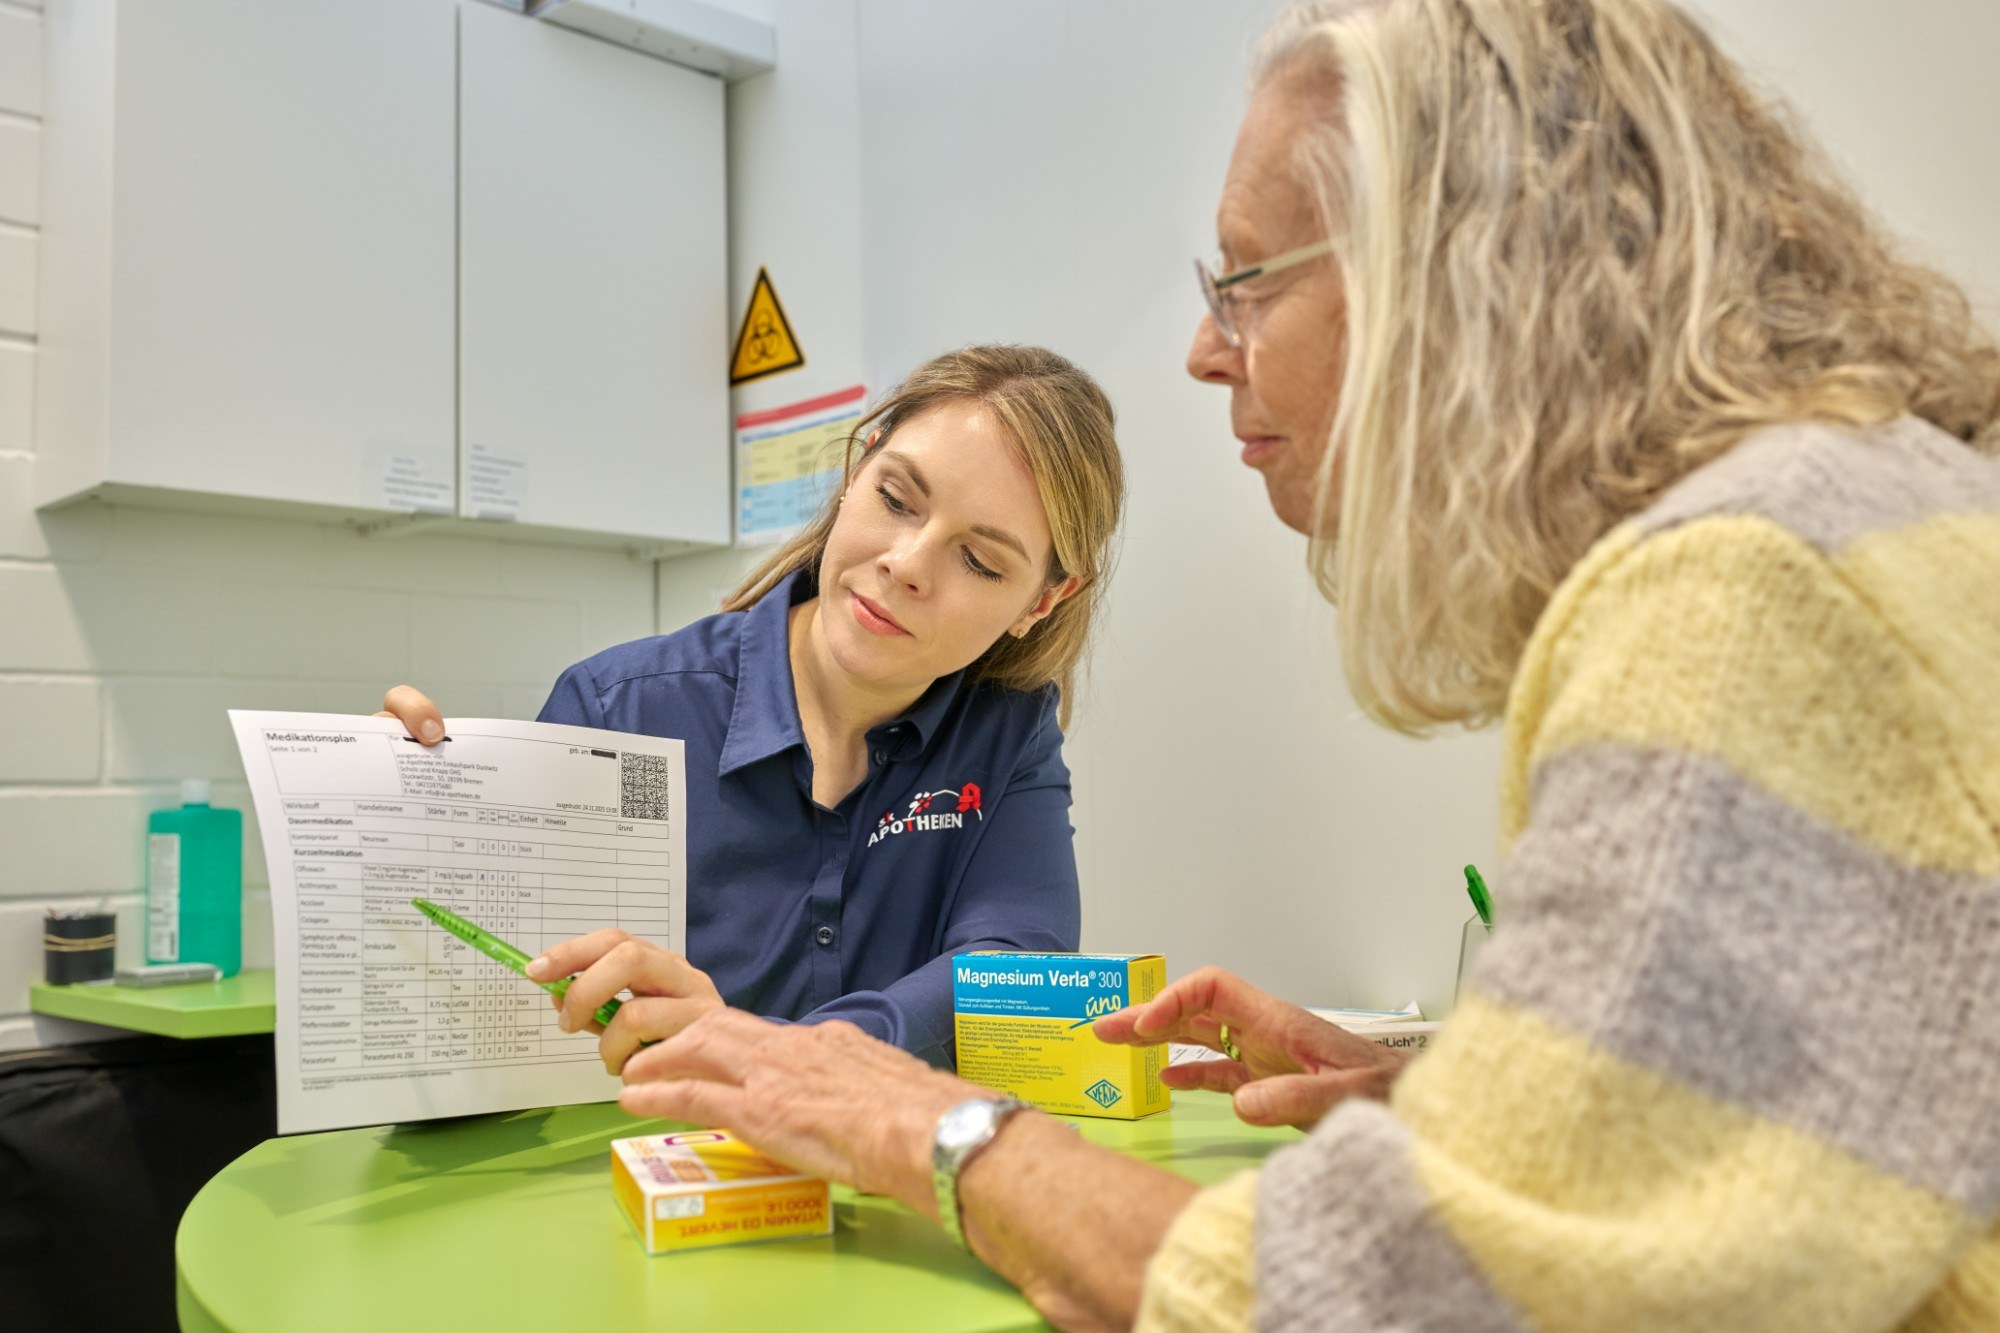
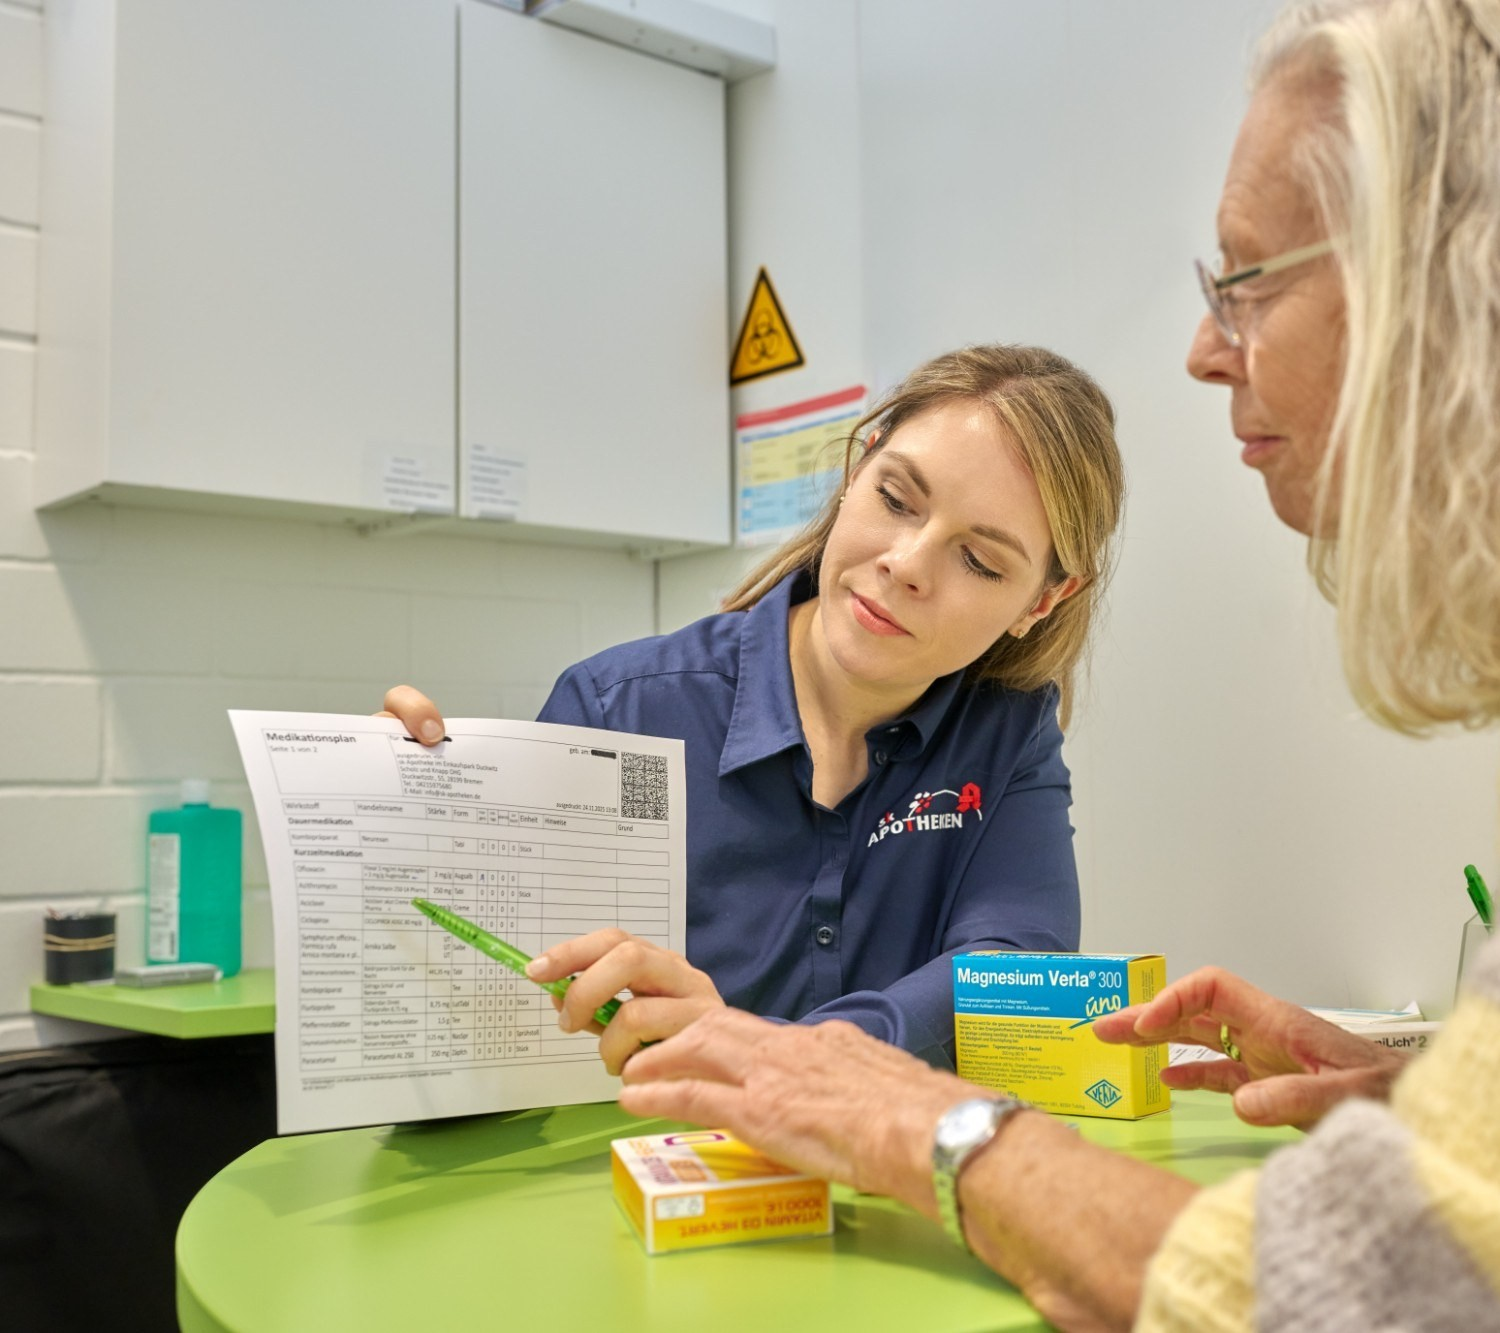
Shorten hero image, remove bottom bar, shift focus to pharmacist + paper
Set the hero container's bottom padding to 0 so the section's green
background ends exactly at the card's lower edge instead of leaving a
flat colored strip beneath it, and widened the banner's aspect ratio
(2.2:1 -> 2.5:1 initially) to reduce its height.

Then, per follow-up feedback, cropped the source photo itself down to
its left 1500 of 2000px (full height kept) so the pharmacist and the
medication plan she's holding read as the clear subject, with the
patient on the right present but no longer dominating the frame with
her hair filling nearly half the width. Adjusted the banner ratio to
1.65:1 to keep the pharmacist's chin safely inside the visible crop
with a comfortable margin, verified across the desktop/laptop/mobile
viewport matrix.

Claude-Session: https://claude.ai/code/session_01XLhHeWYtKyT8mPMe2s9Kra

diff --git a/css/style.css b/css/style.css
@@ -277,7 +277,7 @@ img { max-width: 100%; display: block; }
 }
 .hero-media {
   width: 100%;
-  aspect-ratio: 2.2 / 1;
+  aspect-ratio: 1.65 / 1;
   overflow: hidden;
 }
 .hero-photo {
@@ -292,7 +292,7 @@ img { max-width: 100%; display: block; }
   object-position: 50% 0%;
   display: block;
 }
-.hero .container { position: relative; padding-bottom: 56px; }
+.hero .container { position: relative; padding-bottom: 0; }
 .hero-copy {
   position: relative;
   z-index: 2;
@@ -845,7 +845,7 @@ a.contact-card:hover { box-shadow: var(--shadow-hover); transform: translateY(-3
 
 /* ---------- Responsive ---------- */
 @media (max-width: 980px) {
-  .hero-media { aspect-ratio: 4 / 3; }
+  .hero-media { aspect-ratio: 3 / 2; }
   .hero-copy { max-width: none; margin-top: -56px; }
   .problem-intro { grid-template-columns: 1fr; gap: 28px; }
   .problem-media { order: -1; max-width: 460px; margin: 0 auto; width: 100%; }
